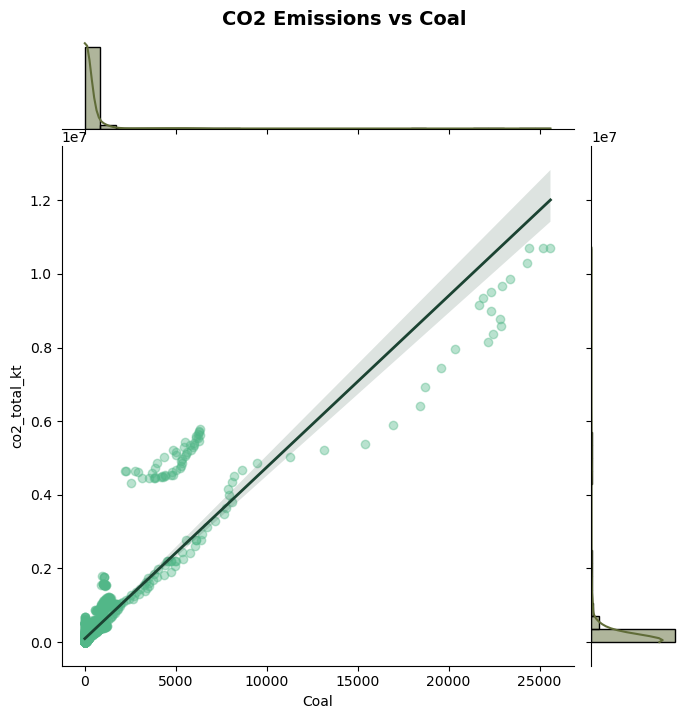
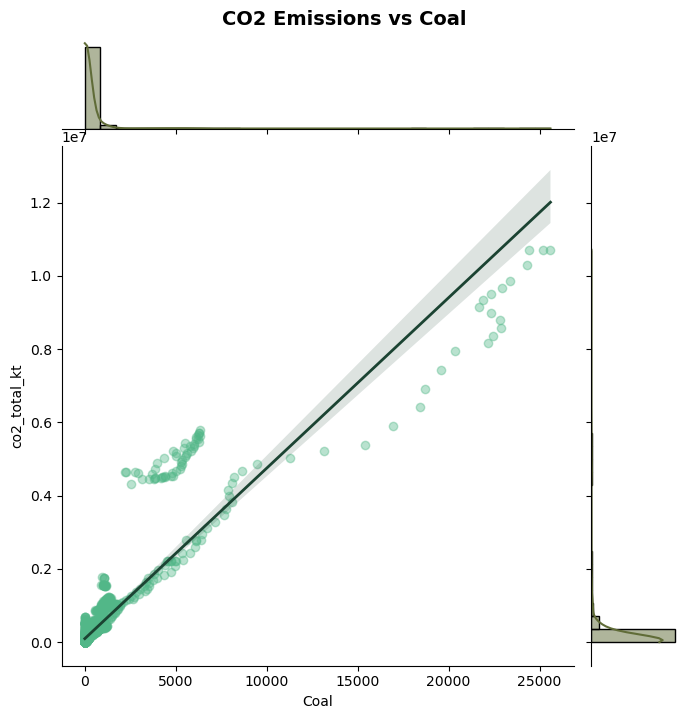
feature phase start

diff --git a/feature.py b/feature.py
@@ -1,4 +1,60 @@
 import pandas as pd
 import numpy as np
 
-print("helloooo")
+#colors
+RED = "\033[91m"
+RESET = "\033[0m"
+GREEN = "\033[32m"
+YELLOW = "\033[33m"
+MAGENTA = "\033[35m"
+CYAN = "\033[36m"
+
+def engineer_features(df):
+    renewable_cols = ['Solar', 'Wind', 'Hydropower', 'Biofuels', 'Other renewables']
+    fossil_cols = ['Coal', 'Oil', 'Gas']
+
+    # basic energy aggregates
+    df['total_energy'] = df[renewable_cols + fossil_cols].sum(axis=1)
+    df['total_renewable'] = df[renewable_cols].sum(axis=1)
+    df['total_fossil'] = df[fossil_cols].sum(axis=1)
+
+    # shares — these are your most important ML features
+    df['renewable_share'] = df['total_renewable'] / df['total_energy']
+    df['fossil_share'] = df['total_fossil'] / df['total_energy']
+
+    # emissions intensity — how dirty is each unit of energy?
+    df['co2_per_energy'] = df['co2_total_kt'] / df['total_energy']
+
+    # per capita features — need population
+    df['energy_per_capita'] = df['total_energy'] / df['Population']
+
+    # economic features — need GDP
+    df['gdp_per_capita'] = df['gdp_usd'] / df['Population']
+    df['co2_per_gdp'] = df['co2_total_kt'] / df['gdp_usd']  # emissions intensity per dollar
+
+    # year over year change — tells model about trends not just snapshots
+    df = df.sort_values(['Country', 'Year'])
+    df['co2_yoy_change'] = df.groupby('Country')['co2_total_kt'].pct_change()
+    df['renewable_share_yoy'] = df.groupby('Country')['renewable_share'].diff()
+
+    print(f"{CYAN}Engineered features:{RESET}")
+    print(df[['Country', 'Year', 'renewable_share', 'fossil_share', 
+              'co2_per_energy', 'gdp_per_capita', 'co2_yoy_change']].head(10))
+    print(f"{MAGENTA}Shape: {df.shape}{RESET}")
+    print(f"{GREEN}...Features engineered!{RESET}")
+    return df
+
+def main():
+    df = pd.read_csv('data/output/CO2_AND_ENERGY.csv')
+    print(f"Loaded model dataset: {df.shape}")
+    
+    df = engineer_features(df)
+    
+    # check nulls after feature engineering
+    print("\nNull counts:")
+    print(df.isnull().sum())
+    
+    df.to_csv('data/processed/features.csv', index=False)
+
+if __name__ == "__main__":
+    main()
